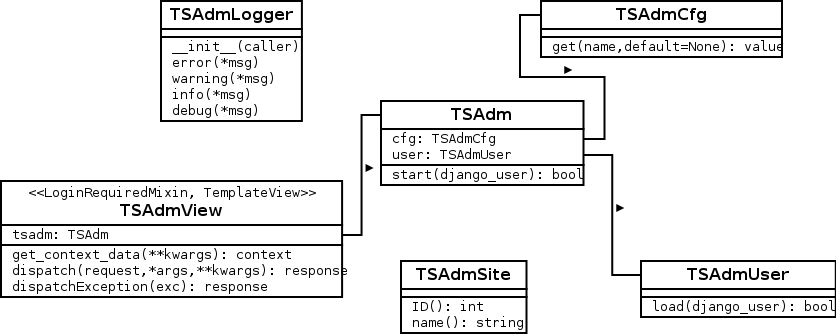
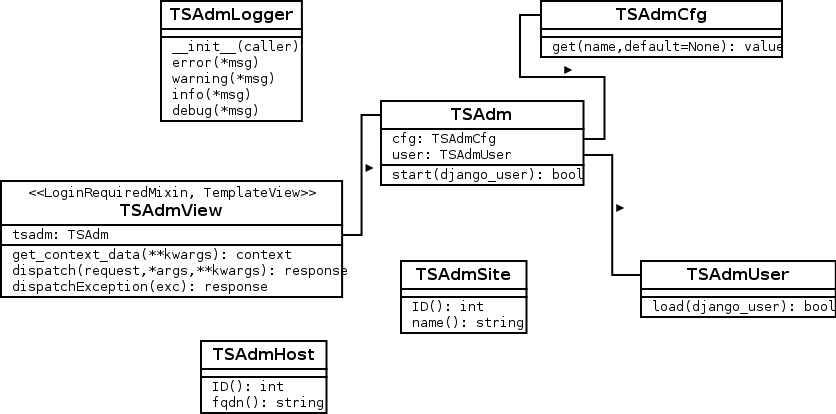
tsadmhost package - initial commit

diff --git a/src/tsadmhost/templates/theme/devel/tsadmhost/home.html b/src/tsadmhost/templates/theme/devel/tsadmhost/home.html
@@ -1,0 +1,10 @@
+{% extends 'theme/devel/tsadm/base.html' %}
+
+{% block content %}
+
+<pre>{{ user }}
+{{ tsadm.user }}
+{{ tsadm.host }}
+{{ tsadm.host.ID }} {{ tsadm.host.fqdn }}</pre>
+
+{% endblock %}

diff --git a/src/tsadmhost/migrations/0001_initial.py b/src/tsadmhost/migrations/0001_initial.py
@@ -1,0 +1,27 @@
+# -*- coding: utf-8 -*-
+# Generated by Django 1.9.2 on 2016-02-05 00:36
+from __future__ import unicode_literals
+
+from django.db import migrations, models
+
+
+class Migration(migrations.Migration):
+
+    initial = True
+
+    dependencies = [
+    ]
+
+    operations = [
+        migrations.CreateModel(
+            name='TSAdmHostDB',
+            fields=[
+                ('id', models.AutoField(auto_created=True, primary_key=True, serialize=False, verbose_name='ID')),
+                ('fqdn', models.CharField(max_length=128, unique=True)),
+            ],
+            options={
+                'verbose_name_plural': 'Hosts',
+                'verbose_name': 'Host',
+            },
+        ),
+    ]

diff --git a/src/tsadmhost/views.py b/src/tsadmhost/views.py
@@ -1,0 +1,19 @@
+from tsadm.log import TSAdmLogger
+from tsadm.views import TSAdmView
+from . import TSAdmHost
+from .models import TSAdmHostDB
+
+logger = TSAdmLogger(__name__)
+
+class HostView(TSAdmView):
+    template_name = 'tsadmhost/home.html'
+
+    def __init__(self):
+        logger.debug('HostView init')
+        super(HostView, self).__init__()
+
+    def get_context_data(self, **kwargs):
+        context = super(HostView, self).get_context_data(**kwargs)
+        dbobj = TSAdmHostDB.objects.get(pk=kwargs['ID'])
+        context['tsadm']['host'] = TSAdmHost(dbobj)
+        return context

diff --git a/src/tsadmhost/tests/test.py b/src/tsadmhost/tests/test.py
@@ -1,0 +1,12 @@
+from tsadm.tests import TSAdmTestBase
+from ..models import TSAdmHostDB
+
+class TSAdmHostTest(TSAdmTestBase):
+    def setUp(self):
+        super(TSAdmHostTest, self).setUp()
+        host = TSAdmHostDB(fqdn='fake.host.test')
+        host.save()
+
+    def test_HostView(self):
+        resp = self.client.get(self.getURL('host:home', kwargs={'ID': 1}))
+        self.assertEqual(resp.status_code, 200)

diff --git a/src/tsadmhost/__init__.py b/src/tsadmhost/__init__.py
@@ -1,0 +1,16 @@
+from tsadm.log import TSAdmLogger
+
+logger = TSAdmLogger(__name__)
+
+class TSAdmHost:
+    _dbobj = None
+
+    def __init__(self, dbobj):
+        logger.debug('init host:', dbobj.fqdn)
+        self._dbobj = dbobj
+
+    def ID(self):
+        return self._dbobj.pk
+
+    def fqdn(self):
+        return self._dbobj.fqdn

diff --git a/src/tsadm/urls.py b/src/tsadm/urls.py
@@ -24,5 +24,6 @@ urlpatterns = [
     url(r'^auth/', include('tsadm.auth_urls')),
     url(r'^user/', include('tsadmuser.urls', namespace='user')),
     url(r'^site/', include('tsadmsite.urls', namespace='site')),
+    url(r'^host/', include('tsadmhost.urls', namespace='host')),
     url(r'^admin/', admin.site.urls),
 ]

diff --git a/src/tsadmhost/models.py b/src/tsadmhost/models.py
@@ -1,0 +1,11 @@
+from django.db import models
+
+class TSAdmHostDB(models.Model):
+    class Meta:
+        verbose_name = "Host"
+        verbose_name_plural = "Hosts"
+
+    fqdn = models.CharField(max_length=128, unique=True)
+
+    def __str__(self):
+        return "Host:"+self.fqdn

diff --git a/src/tsadm/settings.py b/src/tsadm/settings.py
@@ -42,6 +42,7 @@ INSTALLED_APPS = [
     'tsadm.apps.TSAdmConfig',
     'tsadmuser.apps.TSAdmUserConfig',
     'tsadmsite.apps.TSAdmSiteConfig',
+    'tsadmhost.apps.TSAdmHostConfig',
 ]
 
 MIDDLEWARE_CLASSES = [

diff --git a/src/tsadmhost/admin.py b/src/tsadmhost/admin.py
@@ -1,0 +1,7 @@
+from django.contrib import admin
+from .models import TSAdmHostDB
+
+class HostAdmin(admin.ModelAdmin):
+    pass
+
+admin.site.register(TSAdmHostDB, HostAdmin)

diff --git a/src/tsadmhost/urls.py b/src/tsadmhost/urls.py
@@ -1,0 +1,6 @@
+from django.conf.urls import url
+from .views import HostView
+
+urlpatterns = [
+    url(r'(?P<ID>\d+)/$', HostView.as_view(), name='home'),
+]

diff --git a/src/tsadmhost/apps.py b/src/tsadmhost/apps.py
@@ -1,0 +1,4 @@
+from django.apps import AppConfig
+
+class TSAdmHostConfig(AppConfig):
+    name = 'tsadmhost'
